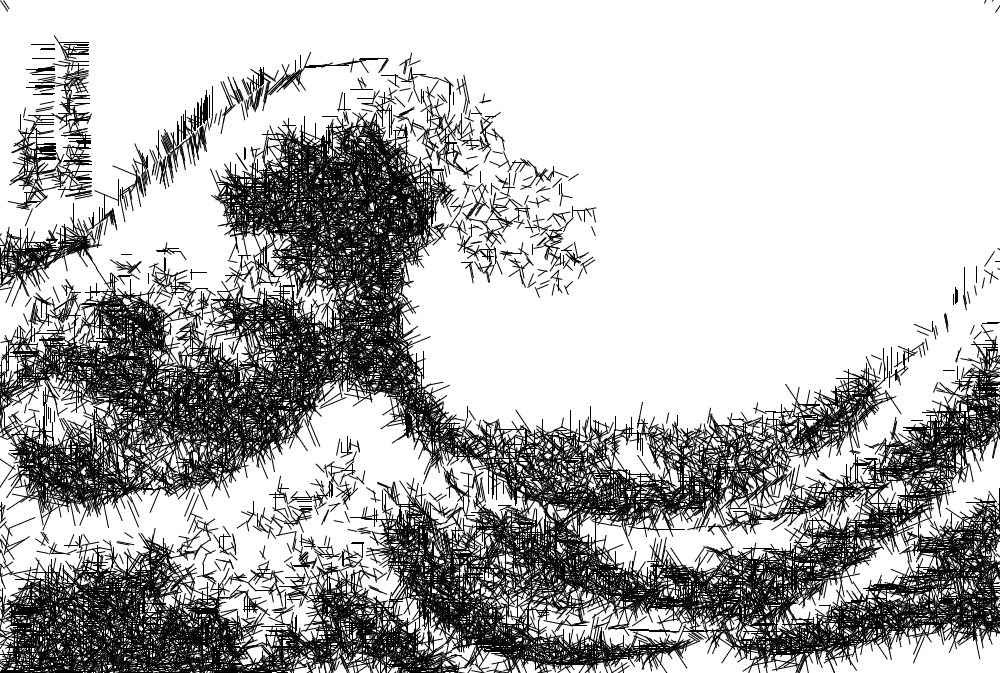
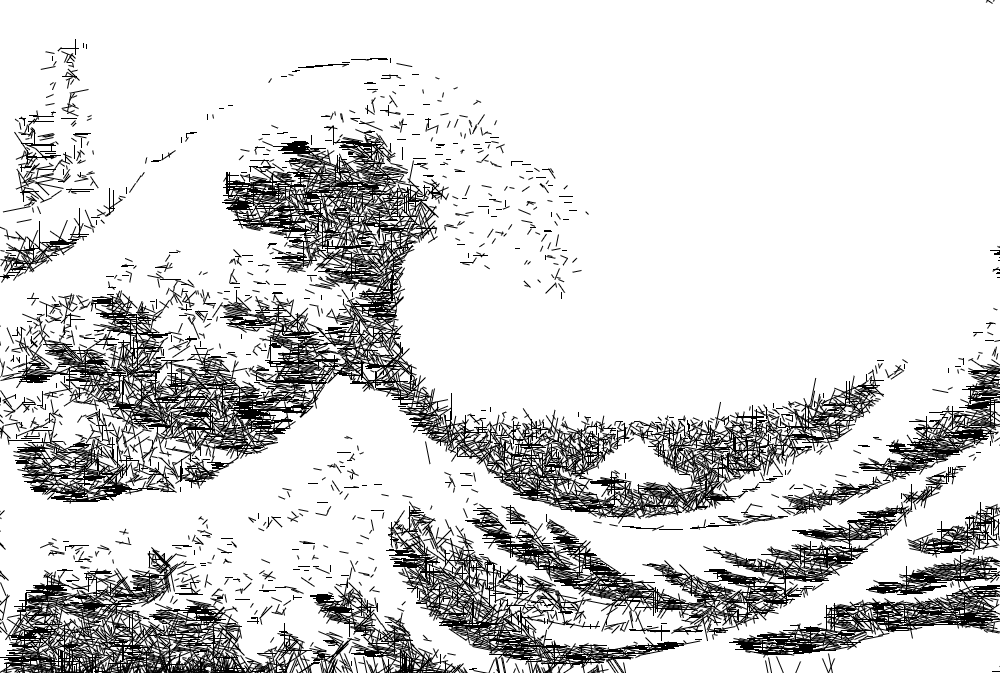
improved lines sketch

diff --git a/lines/sketch.js b/lines/sketch.js
@@ -18,7 +18,7 @@ var img;
 var nbDirections = 32;
 var nbPointPerRound = 50;
 var threshold = 130;
-
+var thresholdEcartType = 110;
 
 function preload() {
   img = loadImage(imgURL);
@@ -87,9 +87,13 @@ function setup() {
   inp15.input(changeNbPoints);
 
   createElement('br');
-  createDiv('threshold');
+  createDiv('threshold average color');
   var inp16 = createInput(threshold,'number');
   inp15.input(changeThreshold);
+  createElement('br');
+  createDiv('threshold standard deviation');
+  var inp16 = createInput(thresholdEcartType,'number');
+  inp15.input(changeThresholdEcartType);
   createElement('br');
   buttReload2 = createButton('Reload');
   buttReload2.mousePressed(reloadImg);
@@ -160,6 +164,12 @@ function changeThreshold() {
   if(threshold > 250) threshold = 250;
 }
 
+function changeThresholdEcartType() {
+  thresholdEcartType = parseInt(this.value());
+  if(thresholdEcartType < 1) thresholdEcartType = 1;
+  if(thresholdEcartType > 254) thresholdEcartType = 254;
+}
+
 
 function draw() {
  // background(255);
@@ -170,7 +180,7 @@ function draw() {
   for(var i=0;i<nbPointPerRound;i++) {
     x = floor(random(0,width));
     y  = floor(random(0,width));
-    r = floor(random(10,30));
+    r = floor(random(5,30));
     v = createVector(1,0);
     //console.log(x,y,r);
     let maximum = [];
@@ -197,14 +207,27 @@ function draw() {
     v.setMag(r);
     let avColor = floor(maximum[indexOfMinValue])/r;
 
+    variance = 0;
     if(avColor < threshold) {
-      stroke(0);
-      line(x,y,x + v.x,y + v.y);
+      
+      for(var dist=1;dist<r;dist++) {
+        v.setMag(dist);
+        variance += Math.pow(pixels[(floor(x+v.x)+floor(y+v.y)*width)*4] - avColor,2);
+        //if(pixels[(floor(x+v.x)+floor(y+v.y)*width)*4] > 255) pixels[(floor(x+v.x)+floor(y+v.y)*width)*4] = 255;
+      }
+      ecartType = Math.sqrt(variance / dist);
+      
+      if(ecartType > thresholdEcartType) continue;
+
       for(var dist=1;dist<r;dist++) {
         v.setMag(dist);
         pixels[(floor(x+v.x)+floor(y+v.y)*width)*4] = 255;
         //if(pixels[(floor(x+v.x)+floor(y+v.y)*width)*4] > 255) pixels[(floor(x+v.x)+floor(y+v.y)*width)*4] = 255;
       }
+
+      stroke(0);
+      line(x,y,x + v.x,y + v.y);
+
     }
 
 
